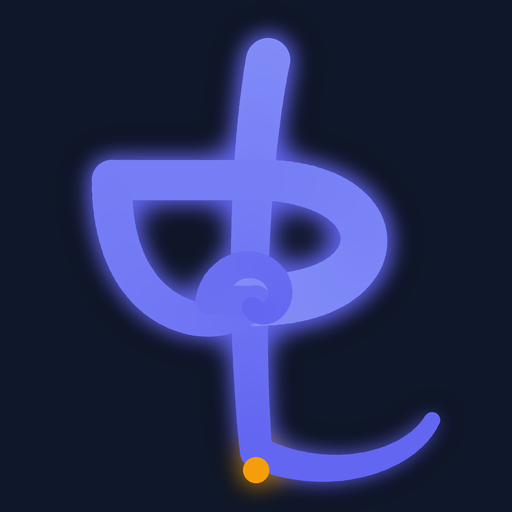
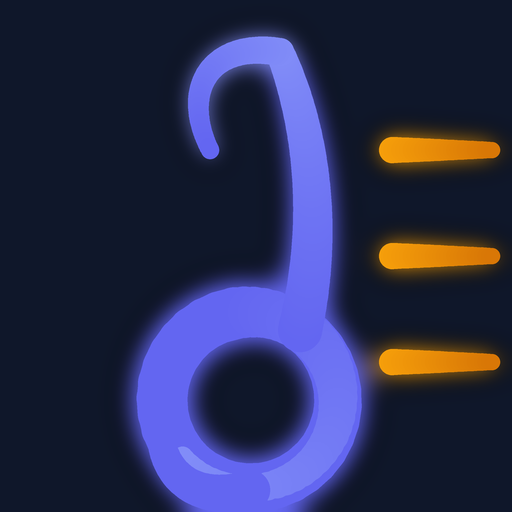
Nyt motiv: g-nøgle med gyldne sætliste-streger ved siden af

diff --git a/make_icon.py b/make_icon.py
@@ -1,4 +1,4 @@
-"""Kunstnerisk SLO/g-nogle ikon i trebra versioner - med kryds som en aegte g-nogle."""
+"""Songlist Organizer-ikon: g-nogle + listestroeger (simg saetliste)."""
 from PIL import Image, ImageDraw, ImageFilter
 import math
 
@@ -14,81 +14,83 @@ def lerp(a, b, t):
 
 def bez(p0, p1, p2, p3, t):
     mt = 1 - t
-    return (mt**3 * p0[0] + 3 * mt**2 * t * p1[0] + 3 * mt * t**2 * p2[0] + t**3 * p3[0],
-            mt**3 * p0[1] + 3 * mt**2 * t * p1[1] + 3 * mt * t**2 * p2[1] + t**3 * p3[1])
+    return (mt**3*p0[0] + 3*mt**2*t*p1[0] + 3*mt*t**2*p2[0] + t**3*p3[0],
+            mt**3*p0[1] + 3*mt**2*t*p1[1] + 3*mt*t**2*p2[1] + t**3*p3[1])
 
 
 def sample_bez(p0, p1, p2, p3, n):
-    return [bez(p0, p1, p2, p3, i / (n - 1)) for i in range(n)]
+    return [bez(p0, p1, p2, p3, i/(n-1)) for i in range(n)]
+
+
+def arc_pts(cx, cy, r, a0, a1, n):
+    return [(cx + r*math.cos(math.radians(a0 + (a1-a0)*i/(n-1))),
+             cy + r*math.sin(math.radians(a0 + (a1-a0)*i/(n-1)))) for i in range(n)]
 
 
 def stroke(d, pts, radii, colors):
     for i, (p, r, c) in enumerate(zip(pts, radii, colors)):
-        d.ellipse([p[0] - r, p[1] - r, p[0] + r, p[1] + r], fill=c + (255,))
+        d.ellipse([p[0]-r, p[1]-r, p[0]+r, p[1]+r], fill=c+(255,))
         if i > 0:
-            q = pts[i - 1]
-            d.line([q[0], q[1], p[0], p[1]], fill=c + (255,), width=int(2 * r))
+            q = pts[i-1]
+            d.line([q[0], q[1], p[0], p[1]], fill=c+(255,), width=int(2*r))
 
 
-def spiral_pts(cx, cy, r0, r1, a0, a1, n):
-    pts = []
-    for i in range(n):
-        t = i / (n - 1)
-        a = math.radians(a0 + (a1 - a0) * t)
-        r = r0 + (r1 - r0) * t
-        pts.append((cx + r * math.cos(a), cy + r * math.sin(a)))
-    return pts
+def clef_layers():
+    """Aegte g-nogle-form: bundspiral, lang stamme, krølle i toppen."""
+    layers = []
+    # 1) Bundspiral: stor rund loekke der snor sig ind i en spiral (g-noglens krop)
+    loop = arc_pts(250, 400, 88, 300, 980, 70)          # helt rundt og videre
+    spiral_in = arc_pts(250, 400, 88, 260, 500, 40)      # anden runde, let mindre
+    layers.append((loop, 20, 26, INDIGO, INDIGO))
+    layers.append((spiral_in, 26, 10, INDIGO, VIOLET))
+    # spiralens midtprik (g-noglens indre cirkel)
+    # 2) Stammen: fra loekkens topkryds og op til hoejre, let boejende
+    stem = sample_bez((300, 330), (330, 200), (300, 100), (280, 52), 100)
+    layers.append((stem, 22, 14, INDIGO, VIOLET))
+    # 3) Krøllen i toppen: snoer til venstre og ned igen (flaget)
+    top = sample_bez((280, 52), (210, 40), (180, 90), (210, 150), 60)
+    layers.append((top, 14, 9, VIOLET, INDIGO))
+    # 4) lille hage paa venstre side af loekken (som paa aegte noder)
+    chin = sample_bez((162, 400), (150, 470), (190, 505), (250, 490), 50)
+    layers.append((chin, 12, 20, INDIGO, INDIGO))
+    return layers
 
 
-def build_layer1():
-    """Stammen: lang, let snoet lodret linje fra top til bund (S'ets rygrad)."""
-    return sample_bez((268, 60), (246, 180), (246, 340), (256, 452), 100), 22, 16, VIOLET, INDIGO
-
-
-def build_layer2():
-    """Den store nederste loekke (O'et): spiral der krydser stammen midt paa ikonet."""
-    # ydre baue fra hoejre over toppen og ned til venstre, derefter ind i spiralen
-    outer = sample_bez((256, 300), (400, 300), (400, 180), (256, 180), 50)
-    # fra venstre side krydser vi stammen og snoer os ind i midten (her opstaar KRYDSET)
-    cross = sample_bez((112, 180), (110, 330), (230, 340), (256, 300), 50)
-    # indre spiral ind mod midten
-    inner = spiral_pts(256, 300, 46, 8, 180, 480, 40)
-    return outer + cross + inner, 26, 10, VIOLET, INDIGO
-
-
-def build_layer3():
-    """L'et: fod nederst der loeber til hoejre og krøller op."""
-    foot = sample_bez((256, 452), (330, 486), (410, 462), (432, 420), 80)
-    return foot, 16, 8, INDIGO, INDIGO
+def list_rows():
+    """Tre saetliste-raekker: guldprik + vandret streg."""
+    rows = []
+    ys = [150, 256, 362]
+    for i, y in enumerate(ys):
+        dot = [(392, y)]
+        line = sample_bez((392, y), (430, y), (460, y), (492, y), 30)
+        rows.append((dot, 13, 13, GOLD, GOLD))
+        rows.append((line, 13, 8, GOLD, (217, 119, 6)))
+    return rows
 
 
 def draw_icon(size, scale_motif=1.0, path=None):
     SS = 4
     W = size * SS
-    base = Image.new('RGBA', (W, W), BG + (255,))
+    base = Image.new('RGBA', (W, W), BG+(255,))
     glow = Image.new('RGBA', (W, W), (0, 0, 0, 0))
     gd = ImageDraw.Draw(glow)
     art = Image.new('RGBA', (W, W), (0, 0, 0, 0))
     d = ImageDraw.Draw(art)
 
-    S = W / 512.0 * scale_motif
-    off = (1 - scale_motif) * W / 2
+    S = W/512.0*scale_motif
+    off = (1-scale_motif)*W/2
 
-    layers = [build_layer1(), build_layer2(), build_layer3()]
-    for pts, r0, r1, c0, c1 in layers:
+    all_layers = clef_layers() + list_rows()
+    for pts, r0, r1, c0, c1 in all_layers:
         n = len(pts)
-        pts = [(x * S + off, y * S + off) for (x, y) in pts]
-        radii = [(r0 + (r1 - r0) * i / (n - 1)) * S for i in range(n)]
-        colors = [lerp(c0, c1, i / (n - 1)) for i in range(n)]
+        pts = [(x*S+off, y*S+off) for (x, y) in pts]
+        div = max(n - 1, 1)
+        radii = [(r0 + (r1-r0)*i/div)*S for i in range(n)]
+        colors = [lerp(c0, c1, i/div) for i in range(n)]
         stroke(d, pts, radii, colors)
-        stroke(gd, pts, [r * 1.6 for r in radii], [(99, 102, 241)] * n)
+        stroke(gd, pts, [r*1.5 for r in radii], [c0]*n)
 
-    dot_c = (256 * S + off, 470 * S + off)
-    dot_r = 13 * S
-    d.ellipse([dot_c[0]-dot_r, dot_c[1]-dot_r, dot_c[0]+dot_r, dot_c[1]+dot_r], fill=GOLD + (255,))
-    gd.ellipse([dot_c[0]-dot_r*2, dot_c[1]-dot_r*2, dot_c[0]+dot_r*2, dot_c[1]+dot_r*2], fill=GOLD + (150,))
-
-    glow = glow.filter(ImageFilter.GaussianBlur(W // 40))
+    glow = glow.filter(ImageFilter.GaussianBlur(W//40))
     out = Image.alpha_composite(base, glow)
     out = Image.alpha_composite(out, art)
     out = out.resize((size, size), Image.LANCZOS)
